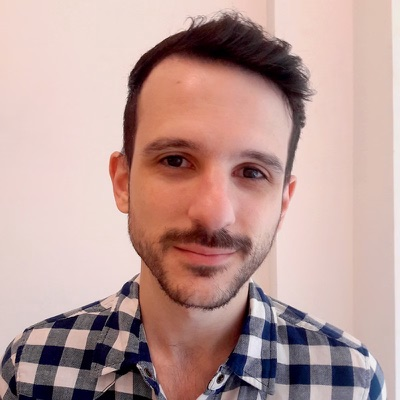
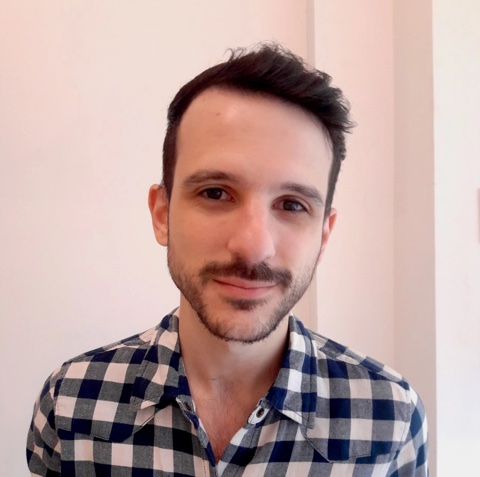
feat(classes): guests approved — list Franco + Sean, their title/bio/headshots
- Franco's class is now "MetaHuman Wardrobes: Infinite Possibilities" with his
  own description; the review URL redirects to the new page slug.
- Sean's bio in his own words; both headshots from the instructors.
- Both classes listed (calendar, /classes, store, gift, sitemap); banner
  names both guests.

diff --git a/lib/instructors.ts b/lib/instructors.ts
@@ -77,8 +77,8 @@ export const instructors = [
   },
   {
     // From Franco's LinkedIn experience + the VPD course page, read
-    // 2026-10-06. Photo: VPD's course page (LinkedIn's has an #OpenToWork
-    // frame). Spelled with one "l" everywhere.
+    // 2026-10-06. Headshot sent by Franco via Alex 2026-10-06. Spelled with
+    // one "l" everywhere.
     id: "franco-vilanova",
     name: "Franco Vilanova",
     role: "Lead Specialty Faculty, Virtual Production Dojo",
@@ -93,20 +93,19 @@ export const instructors = [
     bioApproved: false,
   },
   {
-    // From Sean's LinkedIn experience, read 2026-10-06 (he started Otter Mob
-    // Studios that week). Photo: his LinkedIn headshot — the only current
-    // one; it's 100px, fine at the 80px avatar size.
+    // Bio in Sean's own words (sent to Alex 2026-10-06; "a Unreal" and
+    // "Sony Pictures animation" corrected). Headshot also from Sean via Alex.
     id: "sean-spitzer",
     name: "Sean Spitzer",
-    role: "Chief Creative Officer, Otter Mob Studios",
+    role: "Unreal Technical Director · Art Director",
     bio:
-      "Founder and Chief Creative Officer of Otter Mob Studios, a production house for original game and animation IP. Spent seven years at Epic Games as a senior Unreal Engine instructor, training studios including Pixar, Disney Animation, DreamWorks, Blizzard, Riot Games, WETA, and Netflix, and did lighting and shading on Love, Death & Robots' \"Vaulted Halls Entombed.\" Most recently did previz in Unreal at Sony Pictures Animation.",
+      "Sean Spitzer is an Unreal Technical Director, Art Director, and Unreal Engine specialist with over two decades of experience across gaming, film, broadcast, AR/VR, and virtual production. He has worked with industry leaders including Sony Pictures Animation, Epic Games, Unity Technologies, and The Famous Group, supporting major studios such as Blizzard, Riot Games, Pixar, Disney Animation, DreamWorks, and Netflix. Sean's expertise spans Unreal Engine pipelines, lighting, materials, virtual production, technical art, and team leadership, with a strong background in mentoring artists. He has developed training programs and created cutting-edge real-time experiences for games, film, and live broadcast environments.",
     photo: "/instructors/sean-spitzer.jpg",
     links: [
       { label: "Otter Mob Studios", url: "https://www.ottermobstudios.com/" },
       { label: "LinkedIn", url: "https://www.linkedin.com/in/seanspitzer3d" },
     ],
-    bioApproved: false,
+    bioApproved: true,
   },
 ] as const satisfies readonly Instructor[];
 

diff --git a/lib/classSessions.ts b/lib/classSessions.ts
@@ -254,22 +254,25 @@ export const classSessions: ClassSession[] = [
     youtubeId: "uYAjHLA3htU",
   },
   {
-    slug: "2026-10-14-metahuman-clothing-physics",
+    // Title + description from Franco (2026-10-06). The old URL
+    // /classes/2026-10-14-metahuman-clothing-physics redirects here
+    // (next.config.ts) — it went out in review links.
+    slug: "2026-10-14-metahuman-wardrobes",
     kind: "class",
-    title: "MetaHuman Clothing Physics in UE 5.8",
+    title: "MetaHuman Wardrobes: Infinite Possibilities",
     startsISO: "2026-10-14T15:00:00Z",
     durationMin: 120,
     instructorIds: ["franco-vilanova"],
     level: "Intermediate",
     blurb:
-      "Guest instructor Franco Vilanova on MetaHuman wardrobe that moves like real fabric — cloth setup, simulation, and the settings that sell it.",
+      "Guest instructor Franco Vilanova on extracting pieces from characters and other cloth assets into a MetaHuman Wardrobe workflow — expanding your MetaHuman customization library.",
     description:
-      "Gold Unreal Authorized Instructor Franco Vilanova on dressing MetaHumans in Unreal 5.8 so their clothes move like real fabric. You'll see how MetaHuman wardrobe and cloth are set up, how the simulation is driven, and which settings make the difference between stiff and believable. It's a two-hour preview of Franco's five-week MetaHuman Production & Performance course, so you'll also see where clothing fits in a production-grade MetaHuman pipeline.",
+      "In this session we will go over how to extract pieces from characters, or other cloth assets, to add to a MetaHuman Wardrobe workflow, enhancing and expanding our MetaHuman customization library. Taught by Gold Unreal Authorized Instructor Franco Vilanova — and a preview of his five-week MetaHuman Production & Performance course.",
     learn: [
-      "How MetaHuman wardrobe and clothing assets are structured in Unreal 5.8",
-      "Setting up cloth so garments simulate instead of sitting rigid",
-      "The physics and simulation settings that make fabric read as real",
-      "Where clothing fits in a production MetaHuman workflow",
+      "Extracting garments and pieces from existing characters",
+      "Bringing other cloth assets into a MetaHuman Wardrobe workflow",
+      "Building out a reusable MetaHuman customization library",
+      "Where wardrobe fits in a production MetaHuman pipeline",
     ],
     storeSlug: "wed-2026-10-14-metahuman-clothing-physics",
     materialsSlug: "wed-2026-10-14-metahuman-clothing-physics",

diff --git a/lib/store.ts b/lib/store.ts
@@ -313,16 +313,17 @@ export const wednesdayCalendar: StoreItem[] = [
   // Who teaches each one lives in lib/classSessions.ts (class pages).
   wednesdayCalendarItem({
     slug: "wed-2026-10-14-metahuman-clothing-physics",
-    name: "MetaHuman Clothing Physics in UE 5.8",
+    // Franco's title, 2026-10-06. Slug still says "clothing-physics" (the
+    // temp title) — it's the purchase key and Drive/materials folder key.
+    name: "MetaHuman Wardrobes: Infinite Possibilities",
     blurb:
-      "Guest instructor Franco Vilanova on MetaHuman wardrobe that moves like real fabric — cloth setup, simulation, and the settings that sell it. A preview of his five-week MetaHuman Production & Performance course.",
+      "Guest instructor Franco Vilanova on extracting pieces from characters and other cloth assets into a MetaHuman Wardrobe workflow — expanding your MetaHuman customization library.",
     priceCents: INTERMEDIATE_SESSION_CENTS,
     sessionDateISO: "2026-10-14T15:00:00Z",
     zoomRegistrationUrl: "https://us06web.zoom.us/meeting/register/C266FV9iTEuEdP8FHMijDQ",
     zoomMeetingId: "84483012263",
     priceNote: FALL_RUN_PRICE_NOTE,
     hidePrice: true,
-    unlisted: true,
   }),
   wednesdayCalendarItem({
     slug: "wed-2026-10-21-lumen-deep-dive",
@@ -335,7 +336,6 @@ export const wednesdayCalendar: StoreItem[] = [
     zoomMeetingId: "87173237569",
     priceNote: FALL_RUN_PRICE_NOTE,
     hidePrice: true,
-    unlisted: true,
   }),
   wednesdayCalendarItem({
     slug: "wed-2026-10-28-vr-cinematics",

diff --git a/lib/classMaterials.ts b/lib/classMaterials.ts
@@ -227,9 +227,9 @@ export const classFolders: ClassFolder[] = [
   // acp-drive-access service account (writer), same as the classes above.
   {
     slug: "wed-2026-10-14-metahuman-clothing-physics",
-    title: "MetaHuman Clothing Physics in UE 5.8",
+    title: "MetaHuman Wardrobes: Infinite Possibilities",
     date: "2026-10-14",
-    blurb: "MetaHuman clothing and cloth physics with guest instructor Franco Vilanova.",
+    blurb: "Extracting garments from characters and cloth assets into a MetaHuman Wardrobe workflow, with guest instructor Franco Vilanova.",
     materials: [
       sharedFolder({
         url: "https://drive.google.com/drive/folders/17UTJEgAj8_-0ZttRG-WeBNXN1kc3_FtH",

diff --git a/next.config.ts b/next.config.ts
@@ -12,6 +12,8 @@ const nextConfig: NextConfig = {
   async redirects() {
     return [
       { source: "/lab/unrealitykit", destination: "/lab/unrealitykit-bridge", permanent: true },
+      // Franco's class was reviewed at its temp-title URL (2026-10-06).
+      { source: "/classes/2026-10-14-metahuman-clothing-physics", destination: "/classes/2026-10-14-metahuman-wardrobes", permanent: true },
       { source: "/urk", destination: "/lab/unrealitykit-bridge", permanent: true },
       // Renamed 2026-09-05 to reflect the OpenXR foundation, not just Vision
       // Pro — the old slug is already live in submitted Epic MegaGrant

diff --git a/tests/class-sessions.test.ts b/tests/class-sessions.test.ts
@@ -87,7 +87,7 @@ test("past/upcoming split is by end time, newest past first", () => {
   const now = Date.parse("2026-10-14T16:00:00Z"); // an hour into the Oct 14 class
   const upcoming = upcomingSessions(now, { includeUnlisted: true }).map((s) => s.slug);
   const past = pastSessions(now, { includeUnlisted: true }).map((s) => s.slug);
-  assert.equal(upcoming[0], "2026-10-14-metahuman-clothing-physics");
+  assert.equal(upcoming[0], "2026-10-14-metahuman-wardrobes");
   assert.equal(past[0], "2026-10-07-membership-tour-livestream");
   assert.equal(upcoming.length + past.length, classSessions.length);
 });

diff --git a/lib/announcements.ts b/lib/announcements.ts
@@ -30,7 +30,7 @@ export const announcements: Announcement[] = [
   },
   {
     id: "oct-nov-run-2026",
-    text: "New live classes through Nov 18 — VR cinematics, a Creative AI masterclass, Gaussian splats for VR, and more",
+    text: "New live classes — MetaHuman wardrobes with Franco Vilanova (Oct 14), Lumen Lite with Sean Spitzer (Oct 21), and more",
     href: "/classes",
     cta: "See the lineup",
     start: "2026-10-08",

diff --git a/CONTENT.md b/CONTENT.md
@@ -1530,8 +1530,8 @@
 - `[store.storeItems.wed-2026-09-23-usd-glb-export.saleWindow.closesAtISO]` ▸ 2026-09-30T15:00:00Z
 - `[store.storeItems.wed-2026-09-23-usd-glb-export.saleWindow.closedNote]` ▸ This session has already happened — the next one's on the calendar above.
 - `[store.storeItems.wed-2026-09-23-usd-glb-export.saleWindow.closedList]` ▸ unreal
-- `[store.storeItems.wed-2026-10-14-metahuman-clothing-physics.name]` ▸ MetaHuman Clothing Physics in UE 5.8
-- `[store.storeItems.wed-2026-10-14-metahuman-clothing-physics.blurb]` ▸ Guest instructor Franco Vilanova on MetaHuman wardrobe that moves like real fabric — cloth setup, simulation, and the settings that sell it. A preview of his five-week MetaHuman Production & Performance course.
+- `[store.storeItems.wed-2026-10-14-metahuman-clothing-physics.name]` ▸ MetaHuman Wardrobes: Infinite Possibilities
+- `[store.storeItems.wed-2026-10-14-metahuman-clothing-physics.blurb]` ▸ Guest instructor Franco Vilanova on extracting pieces from characters and other cloth assets into a MetaHuman Wardrobe workflow — expanding your MetaHuman customization library.
 - `[store.storeItems.wed-2026-10-14-metahuman-clothing-physics.delivery]` ▸ Order confirmation lands right away with your Zoom registration link — register and Zoom handles the calendar invite and reminders. The recording is yours afterward even if you can't make it live.
 - `[store.storeItems.wed-2026-10-14-metahuman-clothing-physics.sessionDateISO]` ▸ 2026-10-14T15:00:00Z
 - `[store.storeItems.wed-2026-10-14-metahuman-clothing-physics.zoomRegistrationUrl]` ▸ https://us06web.zoom.us/meeting/register/C266FV9iTEuEdP8FHMijDQ
